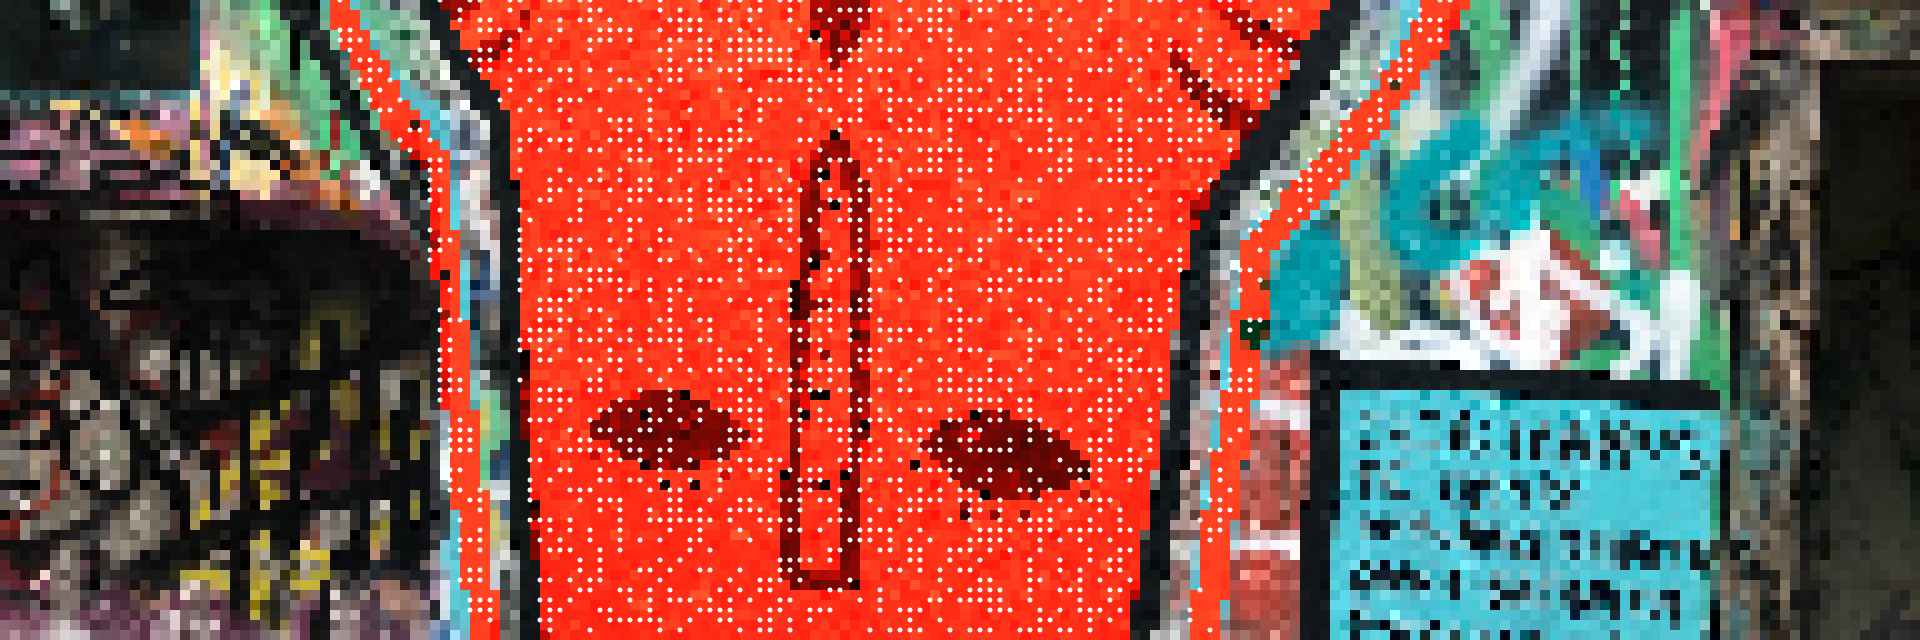
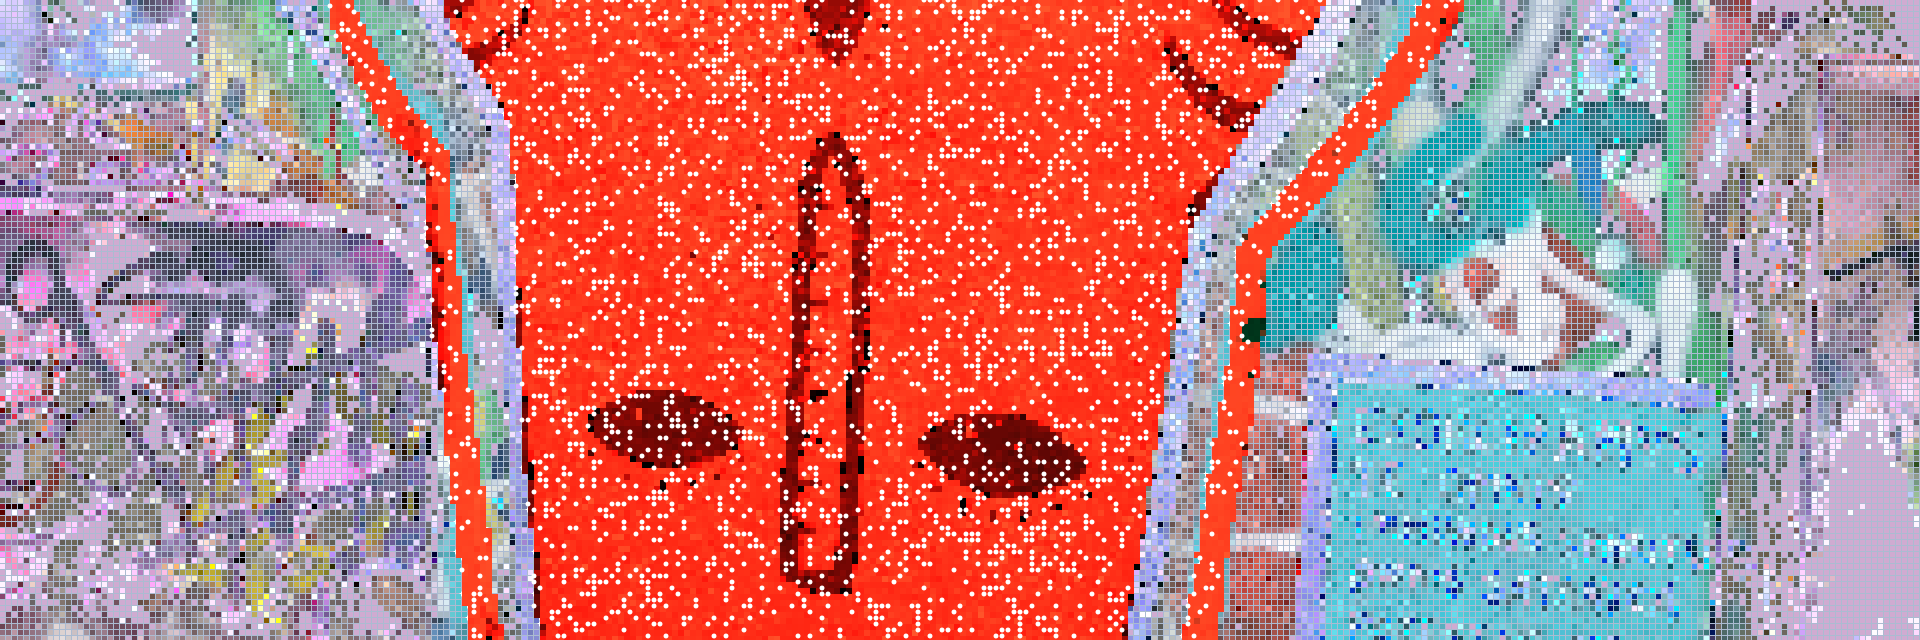
edited background colours

diff --git a/sketch.js b/sketch.js
@@ -18,25 +18,41 @@ function setup () {
 
   imageMode(CENTER);
   noStroke();
-  background(255 );
+  background(171, 187, 209);
   sourceImg.loadPixels();
   maskImg.loadPixels();
 }
 
 function draw () {
 
-  let tilewidth  = 10;
-  let tileheight = 10;
-  noStroke();
+  let tilewidth  =6;
+  let tileheight = 6;
+  let squarew =5;
+  let squareh = 5;
+  strokeWeight(1.5);
   for(var xtile = 0; xtile < sourceImg.width; xtile= xtile+tilewidth){
     for(var ytile = 0; ytile < sourceImg.height;  ytile= ytile+tileheight){
     let pix = sourceImg.get(xtile, ytile);
     let mask = maskImg.get(xtile, ytile);
+    let strokepix = sourceImg.get(xtile, ytile);
+    strokepix[0] = strokepix[0]/2;
+    //stroke (strokepix);
 
     if (mask[0] <128){
+      if(pix[0]<100 &&pix[1]<90&&pix[2]<90){
+        pix[0] = pix[0]*9;
+        pix[1] = pix[1]*7;
+        pix[2] = pix[2]*10;
+        if (pix [0]>=255&&pix[1]>=255&&pix[2]>=255){
+          pix[0]= 207;
+          pix [1]=  171;
+          pix[2]= 209;
+        }
+      }
       fill (pix);
-      rect(xtile,ytile,tilewidth,tileheight);
+      rect(xtile,ytile,squarew,squareh);
     } else{
+      noStroke();
       var pixmod = sourceImg.get(xtile, ytile);
       pixmod[0] = pixmod[0]*6;
       pixmod[1] = pixmod[1]/3;
@@ -44,7 +60,7 @@ function draw () {
       fill(pixmod);
       rect(xtile,ytile,tilewidth,tileheight);
       var rand = random(1,6);
-      if(rand<3){
+      if(rand<2){
         fill(255);
         circle (xtile,ytile,5);
       } else{
@@ -55,21 +71,6 @@ function draw () {
 }
 }
 
-  //
-  //   if(mask[0] < 128) {
-  //
-  //   }
-  //   else {
-  //     for(let i=0;i<2000;i++) {
-  //       let x = floor(random(sourceImg.width));
-  //       let y = floor(random(sourceImg.height));
-  //       let pix = sourceImg.get(x, y);
-  //       let mask = maskImg.get(x, y);
-  //     stroke(pix);
-  //     strokeWeight(5);
-  //     line(x,y,x+50,y);
-  //   }
-  // }
 
 
 
@@ -77,7 +78,7 @@ function draw () {
   if(renderCounter > 1) {
     console.log("Done!")
     noLoop();
-    // uncomment this to save the result
+    //uncomment this to save the result
     //saveArtworkImage(outputFile);
   }
 }

diff --git a/README.md b/README.md
@@ -1,7 +1,10 @@
 ## Creative Coding 2: Custom Pixel
 
+This version of my code looks at taking out the dark parts of the background and using a smaller tile size. I am doing this to create a harsh contrast between the foreground and background.
+These colour experiments are heaps of fun, but I think to progress I need to make a layered mask that highlights some of the more intricate background features of this. I also want to try some different patterns in the background/foreground to create more textures.
+This version of the code doesn't look so good on input 2, but it is still an interesting  effect.
+
+
 The theme I have chosen for my images is graffiti in the Wellington region. These specific images were taken in the abandoned military bunkers surrounding the city (specifically the Brooklyn windmill bunkers and Fort Ballance on Scorching Bay), where every surface is covered in colourful tags. The council doesn't bother to remove these works, so they layer up ontop of each other to create a chaotic yet beautiful pattern and texture. To me, this represents freedom of expression and art. This graffiti is not on any privately owned property, nor is it in the way of the general public. This is a form of art which is generally not acceptable to the civil eye, as it is disruptive and chaotic.
 
 In my rendition of these pieces, I want to show off the chaos and energy these places possess. I want to celebrate the artwork done by these artists, rather than hide it.
-
-This version follows the grid/pixelation idea, but the mask changes the colour of the pixels by manipulating their values. I also used a random variable to add random white dots over only the masked areas. This used a lot of if statements but I think it creates quite a cool effect. Now that know what I can do I will make my effects work together to create a cohesive image.
